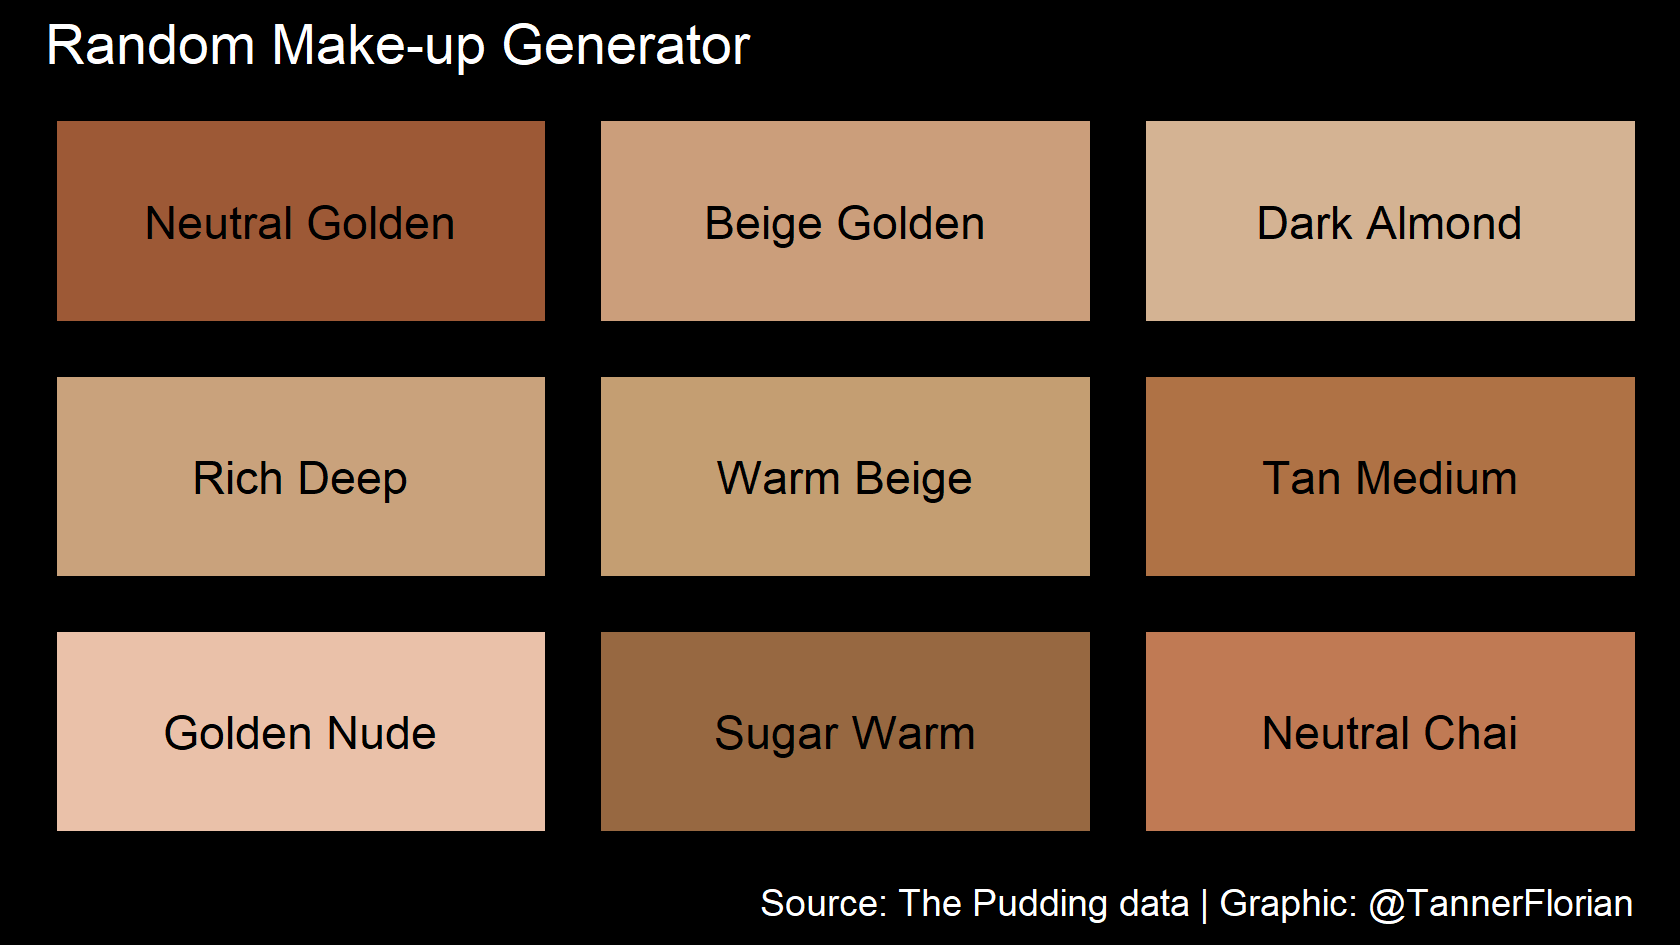
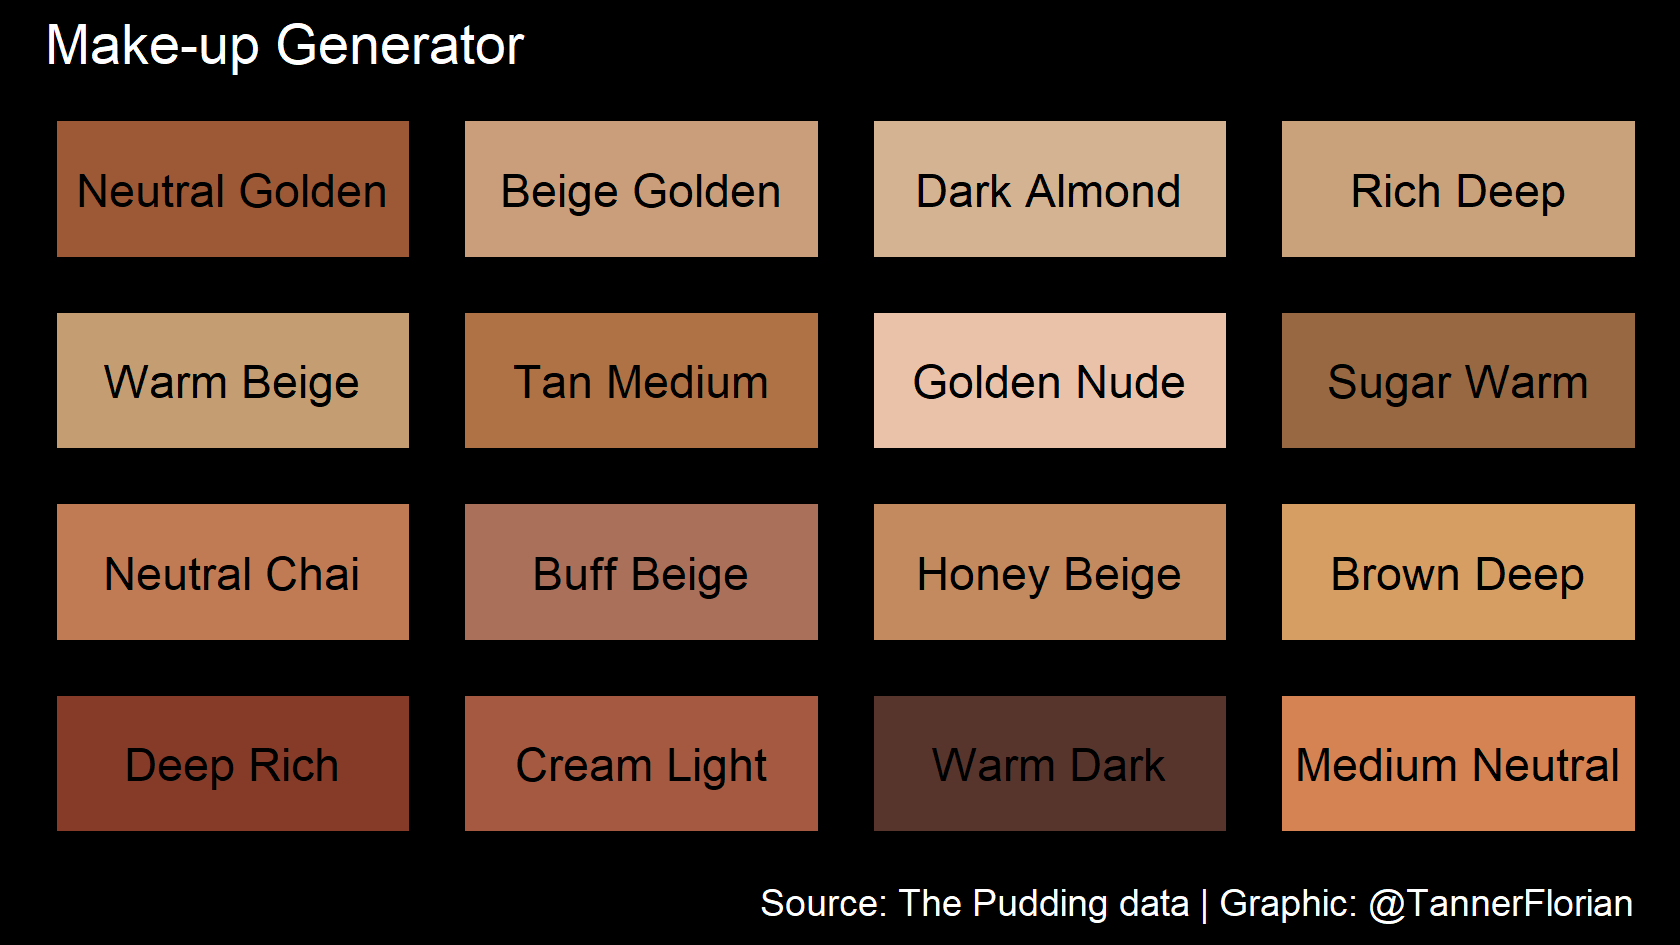
Add more panels

diff --git a/2021-03-30 Makeup Shades/2021-03-30-Makeup-Shades.md b/2021-03-30 Makeup Shades/2021-03-30-Makeup-Shades.md
@@ -43,9 +43,9 @@ allCategories <- readr::read_csv('https://raw.githubusercontent.com/rfordatascie
 ## Building a random name and color generator for new make-up products
 
 This script extracts names from existing products and randomly
-recombines them, a random hex code (balanced sample for lightness) is
-then added to the new name and a plot of 9 different invented make-up
-products is created.
+recombines them into new names. A randomly sampled hex code (stratified
+sampling for lightness) is then added to the new name and a plot of
+different invented make-up products is created.
 
 ### Filter for those products that have a double name that can be recombined
 
@@ -129,7 +129,6 @@ invent_makeup()
 
 ``` r
 plot_random_makeup <- function(){
-  
   make_up <- invent_makeup()
   p <- ggplot(data = make_up, aes(x = 1, y = 1)) +
     theme(plot.background = element_rect(fill = make_up$hex, color = make_up$hex),
@@ -163,9 +162,15 @@ p6 <- plot_random_makeup()
 p7 <- plot_random_makeup()
 p8 <- plot_random_makeup() 
 p9 <- plot_random_makeup() 
+p10 <- plot_random_makeup()
+p11 <- plot_random_makeup()
+p12 <- plot_random_makeup()
+p13 <- plot_random_makeup() 
+p14 <- plot_random_makeup() 
+p15 <- plot_random_makeup()
+p16 <- plot_random_makeup()
 
-
-p <- p1 + p2 + p3 + p4+ p5 + p6 + p7 + p8 + p9 + plot_annotation(title = "Random Make-up Generator", caption = "Source: The Pudding data | Graphic: @TannerFlorian") &
+p <- p1 + p2 + p3 + p4+ p5 + p6 + p7 + p8 + p9 + p10 + p11 + p12 + p13 + p14 + p15 + p16 + plot_annotation(title = "Make-up Generator", caption = "Source: The Pudding data | Graphic: @TannerFlorian") &
   theme(plot.background = element_rect(fill = "black", color = "black"),
         text = element_text(color = "white"))
 
